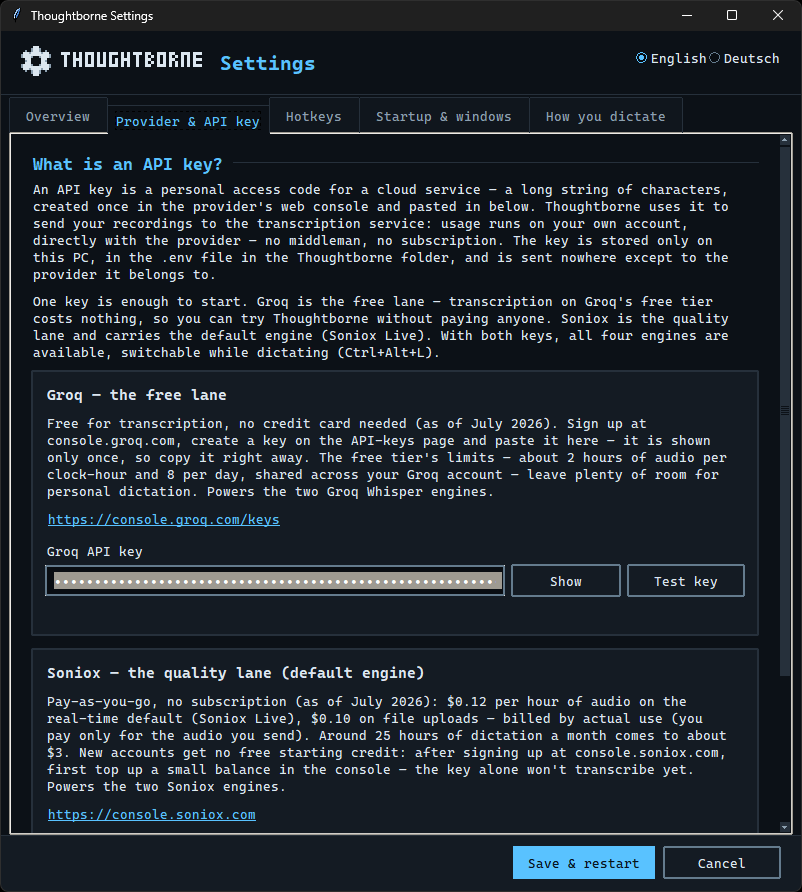
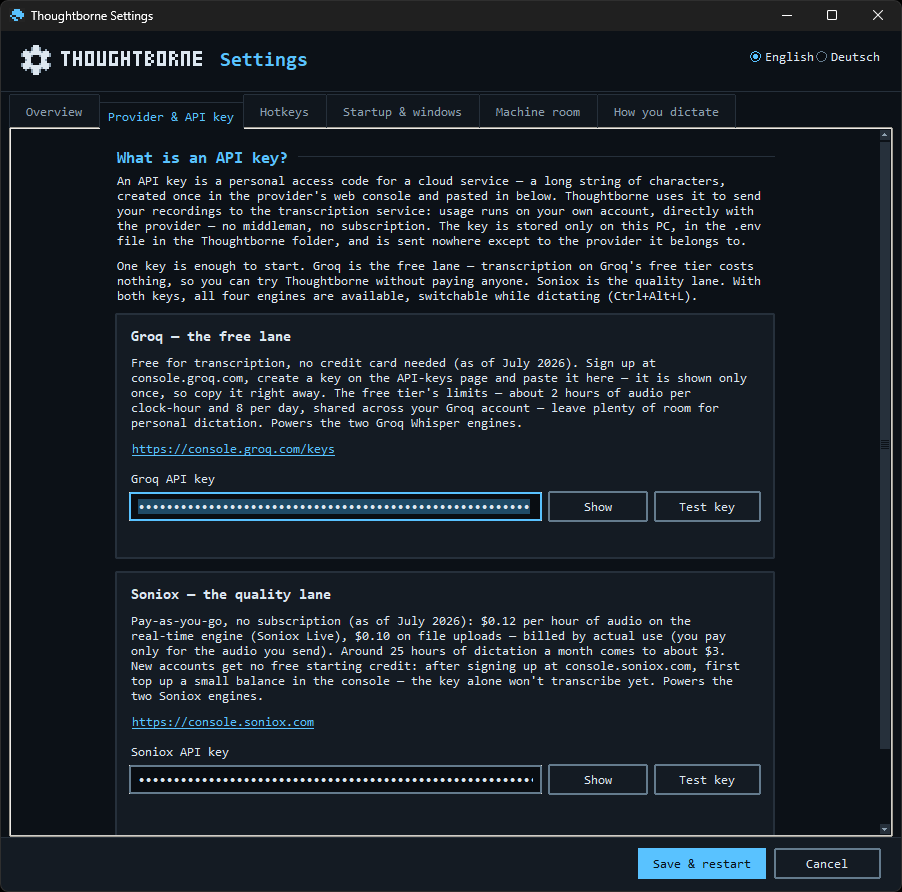
Retake both published screenshots on the current build (#288)
Claude-Session: https://claude.ai/code/session_01Nn1ERYdPQCZLd1maDnwDXK

diff --git a/docs/index.html b/docs/index.html
@@ -142,7 +142,7 @@
   <section class="shot">
     <div class="wrap">
       <div class="shot-frame">
-        <img src="assets/screenshot-terminal.png?v=2" alt="Thoughtborne im Terminal: oben die Bereitschaftsanzeige mit dem Modell-Karussell der vier Engines und der Tastenübersicht, darunter eine Aufnahme vom REC-Hinweis bis zur Bestätigung des eingefügten Texts.">
+        <img src="assets/screenshot-terminal.png?v=3" alt="Thoughtborne im Terminal: oben die Bereitschaftsanzeige mit dem Modell-Karussell der vier Engines und der Tastenübersicht, darunter eine Aufnahme vom REC-Hinweis bis zur Bestätigung des eingefügten Texts.">
       </div>
       <p class="shot-cap"><strong>Bedient wird per Tastenkürzel.</strong> Das Terminal ist kein Bedienfenster, sondern die Anzeige: Es zeigt, welche Engine gerade aktiv ist, welche Tasten belegt sind und was zuletzt passiert ist. Hier wird nichts geklickt – die einzige Ausnahme ist ein kleines Fenster für die Einstellungen.</p>
     </div>

diff --git a/docs/en/index.html b/docs/en/index.html
@@ -142,7 +142,7 @@
   <section class="shot">
     <div class="wrap">
       <div class="shot-frame">
-        <img src="../assets/screenshot-terminal.png?v=2" alt="Thoughtborne in the terminal: the ready screen with the four-engine model carousel and the key overview on top, below it a recording from the REC notice to the inserted-text confirmation.">
+        <img src="../assets/screenshot-terminal.png?v=3" alt="Thoughtborne in the terminal: the ready screen with the four-engine model carousel and the key overview on top, below it a recording from the REC notice to the inserted-text confirmation.">
       </div>
       <p class="shot-cap"><strong>It is operated by keyboard shortcut.</strong> The terminal is not a control window but a display: it shows which engine is currently active, which keys are bound, and what happened last. Nothing here is clicked — the one exception is a small window for the settings.</p>
     </div>

diff --git a/README.de.md b/README.de.md
@@ -156,7 +156,7 @@ Ein Update ersetzt die Dateien, die die neue Version mitbringt, und ergänzt die
 
 Die Konfiguration hat eine grafische Eingangstür: eine kleine Einstellungs-App — ein Fenster, das zugleich Erststart-Assistent und alltäglicher Einstellungsdialog ist, auf Deutsch oder Englisch (umschaltbar im Kopfbereich). Beim ersten Start ohne API-Key öffnet Thoughtborne sie automatisch und führt durch ihre Seiten — Transkriptionsanbieter & API-Key (mit Live-Prüfung „Key testen"), Hotkeys (Push-to-talk an oder aus, zwei Ein-Klick-Preset-Schemata oder jede Kombination pro Aktion per Tastendruck aufnehmen), Start & Fenster (die Engine beim Start, dazu Wegweiser für Tray und Admin-Fenster), Maschinenraum (diese Installation: Version, Installationsordner, die zwei eigenen Dateien, Aktualisieren, Lizenz und eine Schaltfläche, die die Einstellungen auf den Auslieferungszustand zurücksetzt — deine API-Keys und alles, was du selbst in die `personal_settings.json` geschrieben hast, bleiben). Später, sobald ein Key gespeichert ist, öffnest du dasselbe Fenster jederzeit aus dem laufenden Tool mit **`Ctrl+Alt+G`** — es ist Teil von Thoughtborne, kein eigenes Programm. Speichern heißt **Speichern & neu starten**: Es speichert, startet das Tool für dich neu, und die Änderungen greifen sofort — du musst nicht daran denken, es selbst neu zu starten (eine laufende Aufnahme wird vorher gesichert und lässt sich nach dem Neustart mit dem Wiederhol-Hotkey erneut transkribieren). Ohne Key gilt das genauso — das Tool kommt zurück und öffnet dieses Fenster wieder, bis ein Key eingetragen ist. Beendet sich das Tool nicht innerhalb weniger Sekunden, sagt sie das und lässt es unangetastet weiterlaufen; es wird nie etwas erzwungen geschlossen.
 
-<p align="center"><img src="assets/screenshots/settings-provider.png" width="520" alt="Die Einstellungs-App im Reiter Provider &amp; API key: oben die Erklärung, was ein API-Key ist, darunter eine Karte für Groq — die kostenlose Spur — mit verdecktem Key-Feld und den Schaltflächen Show und Test key, darunter eine Karte für Soniox, die Qualitäts-Spur."></p>
+<p align="center"><img src="assets/screenshots/settings-provider.png" width="520" alt="Die Einstellungs-App im Reiter Provider &amp; API key: oben die Erklärung, was ein API-Key ist, darunter eine Karte für Groq — der kostenlose Weg — mit verdecktem Key-Feld und den Schaltflächen Show und Test key, darunter eine Karte für Soniox — der Qualitäts-Weg."></p>
 
 Die App schreibt dieselben zwei Dateien, die sich auch von Hand pflegen lassen — `.env` (die Keys) und `personal_settings.json` (Hotkeys, Engine beim Start, Push-to-talk) — und bearbeitet sie chirurgisch: Handgepflegtes wie das Erkennungs-Vokabular und jeder Kommentar bleiben unangetastet, und Hotkeys landen nur dort in der Datei, wo sie von den Defaults abweichen. Ein laufendes Thoughtborne übernimmt Änderungen beim nächsten Start (kein Live-Reload). Alles, was die App tut, bleibt von Hand editierbar — sie ist ein Frontend für die genannten Dateien, kein Ersatz (siehe [Anpassung](#anpassung)).
 

diff --git a/CHANGELOG.md b/CHANGELOG.md
@@ -84,6 +84,16 @@ and this project adheres to [Semantic Versioning](https://semver.org/spec/v2.0.0
 
 ### Changed
 
+- **Both published screenshots retaken on the current build (#288).** The terminal shot (READMEs
+  and the website) still showed the pre-#272 console — `switch: L`, bare keys without the
+  `Ctrl+Alt +` lead, the old key order and *keep for later* — and the settings shot (READMEs) the
+  five-tab window with *Soniox — the quality lane (default engine)*. Both now show the shipped
+  state: the terminal image is a real dictation round from the maintainer's daily setup (ending in
+  *inserted at the cursor + sent*, so the send-after-insert stop is visible too), the settings image
+  the six-tab window with the *Machine room* and the D-016 icon, taken in Windows Sandbox by the new
+  reusable screenshot lane `sandbox/shots-in-sandbox.ps1`. The site's cache-buster moves to `?v=3`,
+  and the German settings alt text drops the last *Spur* for the *Weg* wording (#270).
+
 - **The website stops calling Soniox the default (#270).** The cost section still labelled the
   $0.12-per-hour figure *The Soniox default* and measured the quality bar *against the paid Soniox
   default* — the last public trace of a wording #270 withdrew everywhere else, and on a page that
